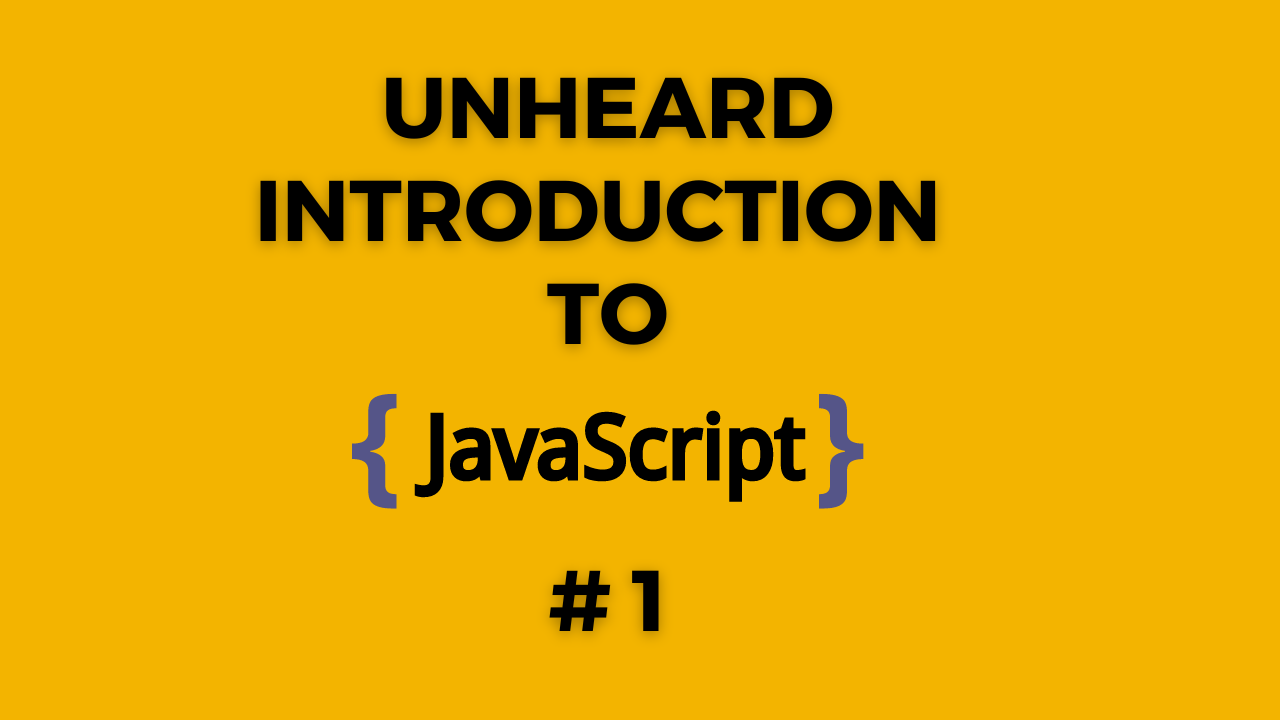
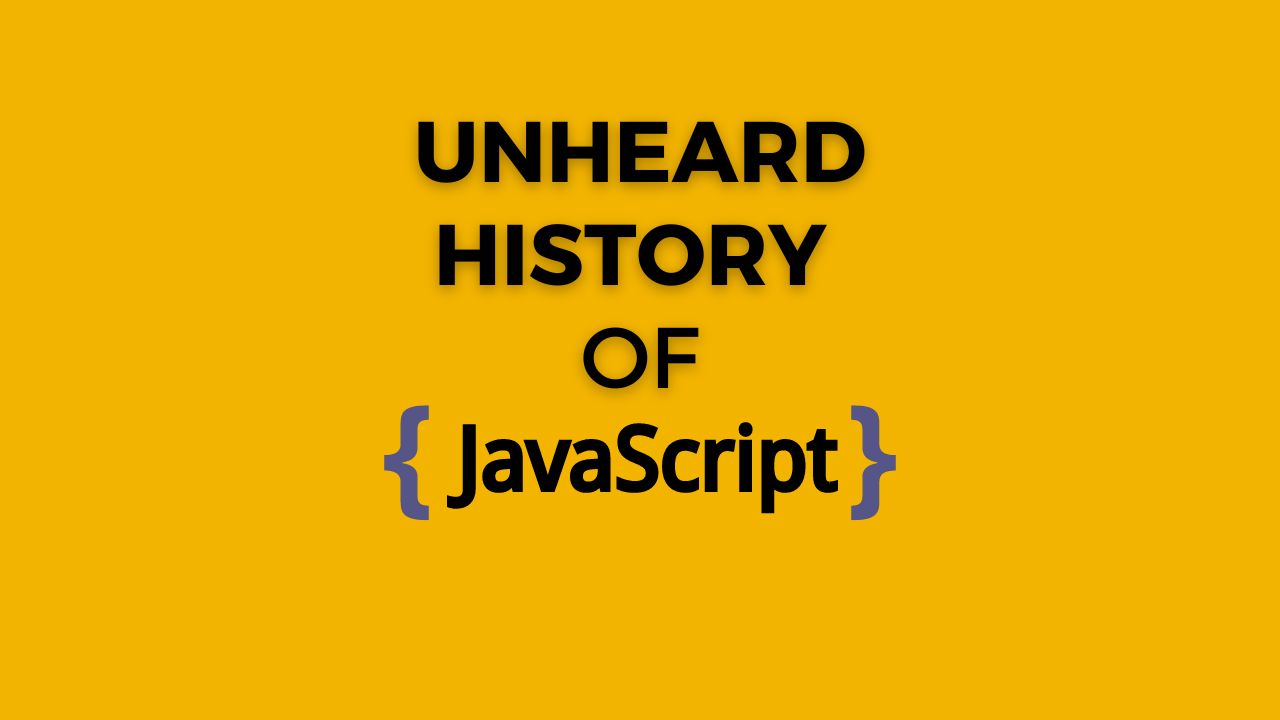
blog writing

Changed region(s): [[0.1875, 0.0917, 0.75, 0.7333], [0.4062, 0.7944, 0.5312, 0.8861]]

diff --git a/src/pages/blogs/[slug].tsx b/src/pages/blogs/[slug].tsx
@@ -14,7 +14,7 @@ export default function PostPage(props: any) {
   return (
     <>
       <Head>
-        <title>{props.slug}</title>
+        <title>{props.frontmatter.title}</title>
       </Head>
       <div className={styles.postPage}>
         <Link href="/blogs" className={styles.postLink}>
@@ -24,7 +24,7 @@ export default function PostPage(props: any) {
           <h2>{props.frontmatter.title}</h2>
           <div className={styles.author}>
             <img
-              src={"/author.jpg"}
+              src={props.frontmatter.authorImage}
               alt="author-image"
               style={{ borderRadius: 50, width: 50, height: 50 }}
             />
@@ -32,7 +32,10 @@ export default function PostPage(props: any) {
               by <Link href={"/"}>Umer Shabir</Link>
             </small>
           </div>
-          <small>{props.frontmatter.date}</small>
+          <small>
+            Published on {props.frontmatter.date} . Updated on{" "}
+            {props.frontmatter.updated}
+          </small>
           <small>{props.frontmatter.tags}</small>
           <Image
             src={props.frontmatter.cover_image}

diff --git a/src/pages/index.tsx b/src/pages/index.tsx
@@ -13,7 +13,7 @@ export default function Home(props: any) {
         <title>Umer Shabir</title>
         <meta name="description" content="Generated by create next app" />
         <meta name="viewport" content="width=device-width, initial-scale=1" />
-        <link rel="icon" href="/public/favicon.png" />
+        <link rel="icon" href="/author.png" />
       </Head>
       <main className={""}>
         <section className={styles.intro}>

diff --git a/src/posts/historyofjavascript.md b/src/posts/historyofjavascript.md
@@ -1,0 +1,14 @@
+---
+title: "Unheard history of JavaScript"
+date: "03-04-2023"
+updated: "06-04-2023"
+tags: "JavaScript"
+description: "I am not going to waste time explaining or advocating how popular JavaScript is as of the current date, 03-04-2023. In this blog, we will explore the history of JavaScript, which has been neglected by most, making it an unheard-of history of JavaScript. I will cover what was happening before the birth of JS, the circumstances at that time, and what happened to JavaScript after its development.
+"
+authorImage: "/author.jpg"
+cover_image: "/images/posts/javascript01.png"
+---
+
+### Background Story
+
+To picture how javascript was born we had to take a glim back to the history of internet, which mainly started in 1960 when the US department of Defence funded a research in APRANET agency to find a decenterized way of communication so they can use it in war like sittuations. In 1969 APRA agency successfully connected California university to standford university via connection this mark the birth of internet, as the following years they connected a number of computers, But the main thing which make internet a hipe was the invent of wordwideweb the first browser and first web server in 1990 by which user can share and access information through internet, This creadit goes to Tim Berner Lee who was working at europion organization for nuclear research.
